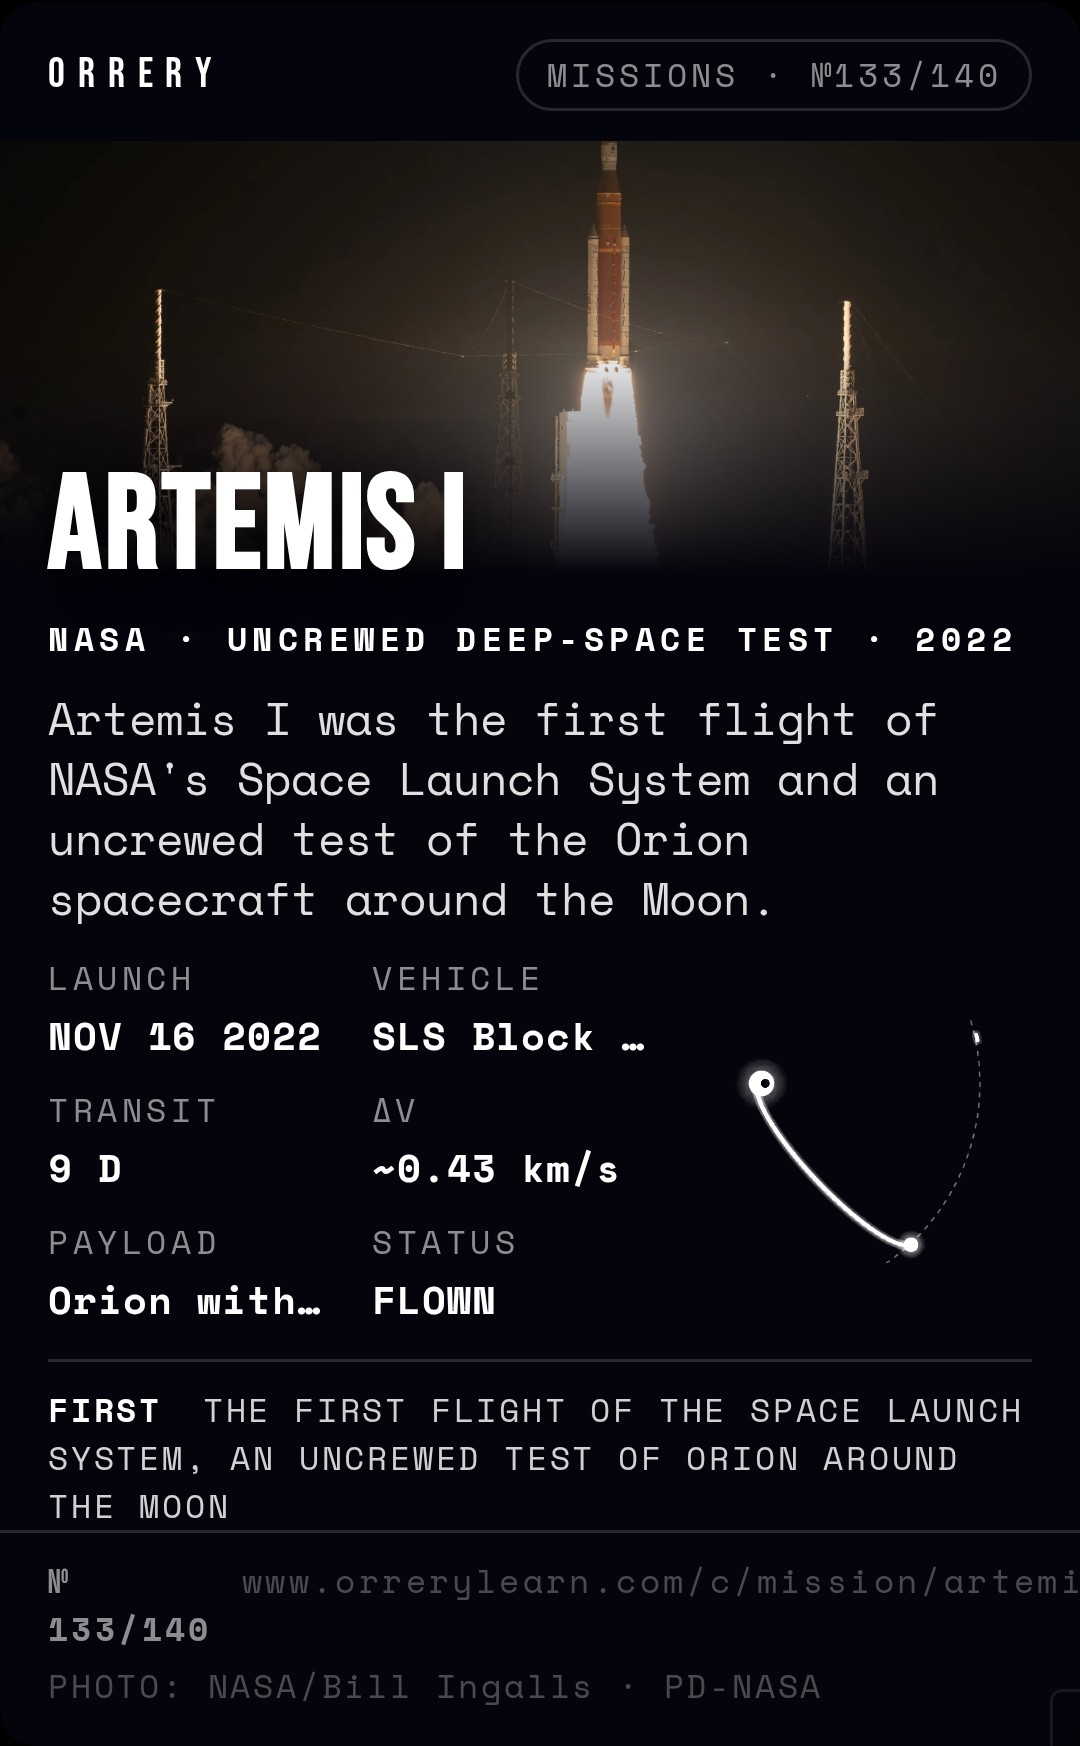
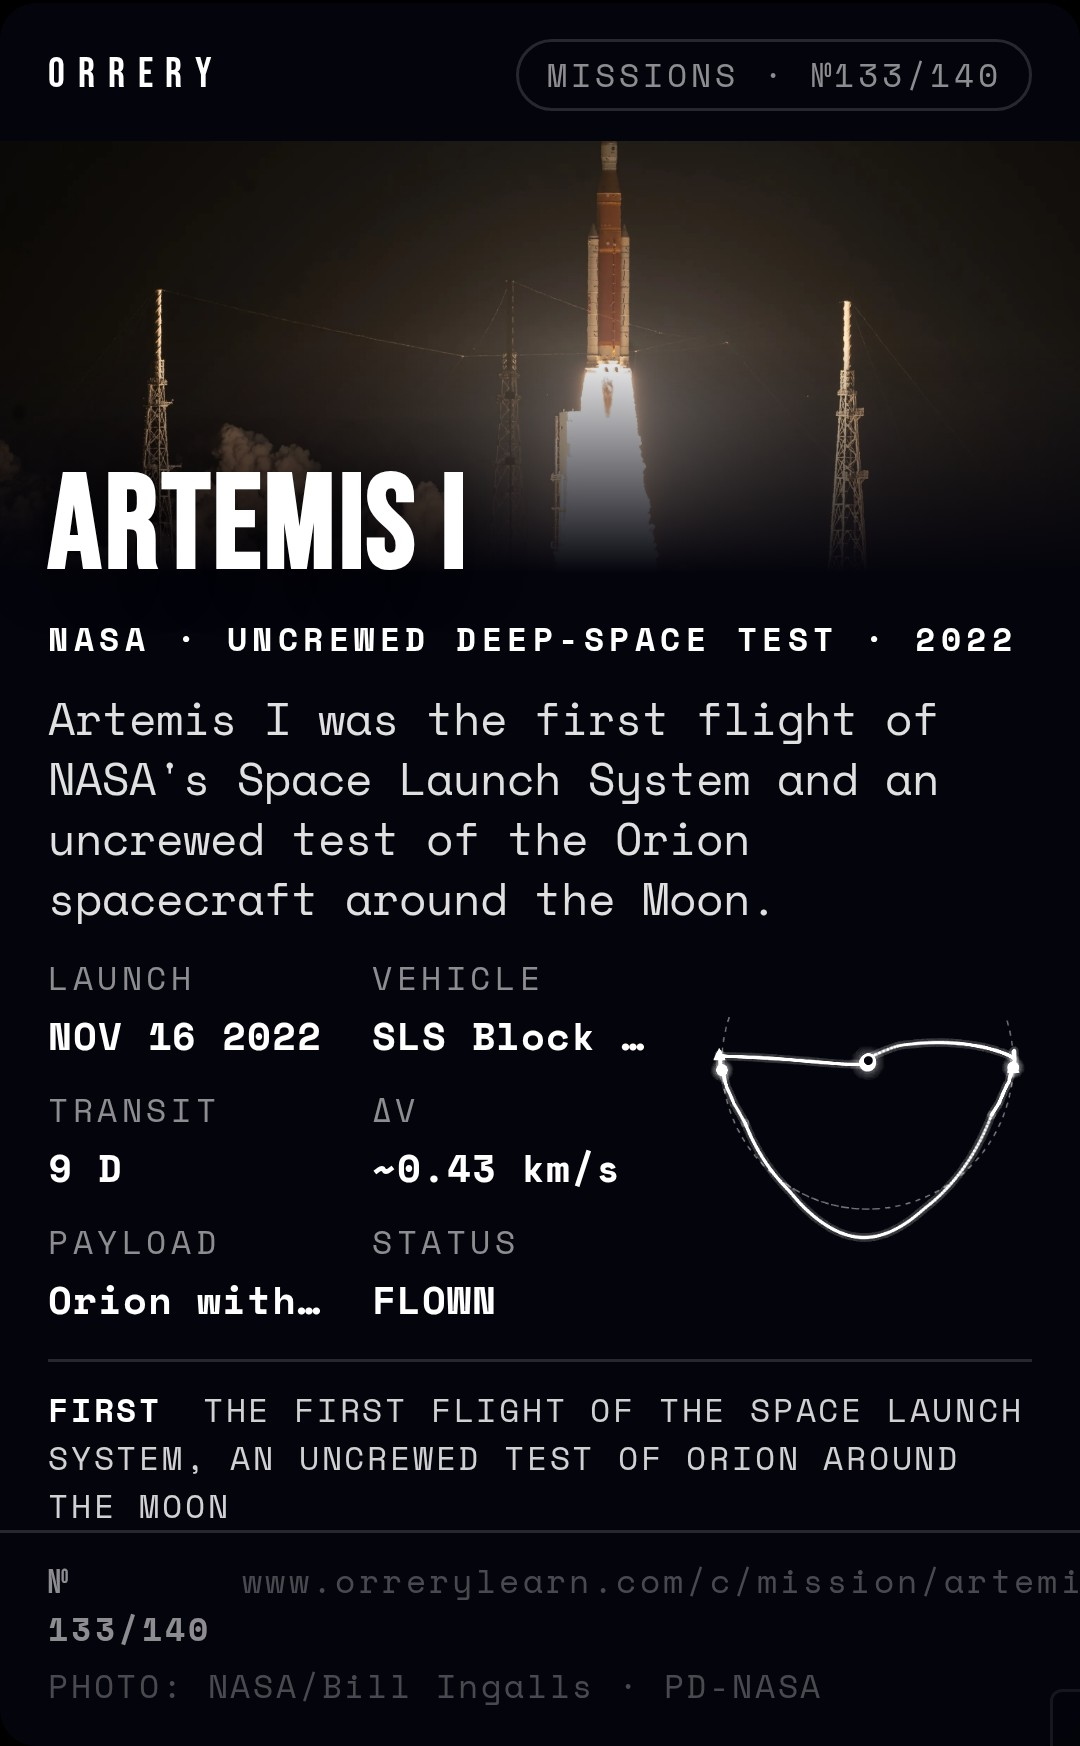
fix(thumbnails): Artemis I trajectory thumbnail draws one continuous track
A published ephemeris stores each lunar pass as its offset from the Moon at its own MET; the
generator froze every pass at the first encounter, so the return flyby after the DRO detached
from the coasts around it. Each published pass now sits on the Moon of its own time (a disc per
pass), and labels keep a word-space apart. Only artemis1 changes: the other 139 thumbnails
re-render byte-identical. Its collectible card is re-rendered.

Claude-Session: https://claude.ai/code/session_01DJqN6sXvRf8f12ZhZzRGvG

Changed region(s): [[0.6417, 0.5876, 0.9472, 0.7423]]

diff --git a/scripts/render-mission-thumbnails.ts b/scripts/render-mission-thumbnails.ts
@@ -259,9 +259,31 @@ function cislunarScene(m: MissionRec): Scene {
       encounter = P(end);
     }
   }
+  // A published ephemeris (Artemis I) stores each pass as its offset from the Moon at its own MET,
+  // re-based on moonRef; its coasts are absolute. Frozen at one encounter, a second pass weeks
+  // later (the return flyby after the DRO) detaches from the coasts around it, so each pass goes
+  // back onto the Moon of its own time: the real Earth-centred track, continuous.
+  const published =
+    (m.flight as { cislunar_profile?: { source_tier?: string } } | undefined)?.cislunar_profile
+      ?.source_tier === 'tier_2_published';
+  const passMoons: Pt[] = [];
   for (const ph of ct.phases) {
     if (ph.points.length < 2) continue;
-    if (LUNAR_LOCAL_PHASE_TYPES.has(ph.type)) {
+    if (published && LUNAR_LOCAL_PHASE_TYPES.has(ph.type)) {
+      const n = ph.points.length - 1;
+      const moonAtMet = (i: number) =>
+        moonEciPos(
+          r.timeline.dep_day + ph.start_met_days + ((ph.end_met_days - ph.start_met_days) * i) / n,
+        );
+      const pts = ph.points.map((p, i) => {
+        const mm = moonAtMet(i);
+        return P({ x: p.x - moonRef.x + mm.x, z: p.z - moonRef.z + mm.z });
+      });
+      scene.paths.push({ pts, hot: true });
+      scene.fit.push(...pts);
+      passMoons.push(P(moonAtMet(n / 2)));
+      moonAt = moonAt ?? passMoons[0];
+    } else if (LUNAR_LOCAL_PHASE_TYPES.has(ph.type)) {
       const e = encounter ?? P(moonRef);
       const pts = ph.points.map((p) => {
         const q = P({ x: p.x - moonRef.x, z: p.z - moonRef.z });
@@ -303,6 +325,10 @@ function cislunarScene(m: MissionRec): Scene {
   if (moonAt) {
     scene.discs.push({ p: moonAt, r: R_MOON_KM * k * 7, color: BODY.moon });
     scene.fit.push(moonAt);
+  }
+  for (const q of passMoons.slice(1)) {
+    scene.discs.push({ p: q, r: R_MOON_KM * k * 7, color: BODY.moon });
+    scene.fit.push(q);
   }
   const first = scene.paths[0]?.pts[0];
   const lastP = scene.paths[scene.paths.length - 1]?.pts.slice(-1)[0];
@@ -595,7 +621,9 @@ function paintPlot(ctx: CanvasRenderingContext2D, scene: Scene, geo: Geo) {
       const y = q.y + c.y;
       const inside = x >= 6 && x + w <= W - 6 && y - h / 2 >= 6 && y + h / 2 <= H - 18 * SW;
       const clash =
-        placed.some((p) => x < p.x + p.w + 4 && x + w + 4 > p.x && Math.abs(y - p.y) < h) ||
+        placed.some(
+          (p) => x < p.x + p.w + 10 * SW && x + w + 10 * SW > p.x && Math.abs(y - p.y) < h,
+        ) ||
         pts.some(
           (o, j) => j !== i && o.x > x - 4 && o.x < x + w + 4 && Math.abs(o.y - y) < h / 2 + 3,
         );

diff --git a/docs/wip/2026-11-21-0.9.11-plan.md b/docs/wip/2026-11-21-0.9.11-plan.md
@@ -103,7 +103,7 @@ See [`2026-11-21-0.9.12-plan.md`](2026-11-21-0.9.12-plan.md): D9 / L65 (impeccab
 F done (F1 except Long March 5, which waits for a published altitude or speed; F2; F3). Q done:
 Q1 four causes fixed (`surface-panel-order:39` open, cause not found), Q2, L17, A11; L7 watching
 until 2026-11-27. **Next: C in the operator's order (C5, P1, P2, L41, R1 done 2026-11-22), C4 last** (WebSearch
-budget 200 per session, shared with subagents). Also open: the Artemis I thumbnail (the generator
+budget 200 per session, shared with subagents). Artemis I thumbnail fixed 2026-11-22 (each published pass goes back on the Moon of its own time). Was: the Artemis I thumbnail (the generator
 draws a broken return leg). Nothing is pushed; branch `tech-debt/0.9.11` is local only. The
 production build passes at `ff86ca5a932`; not run: full preflight, full e2e on both projects,
 docker-e2e (release prep runs once, after C).
